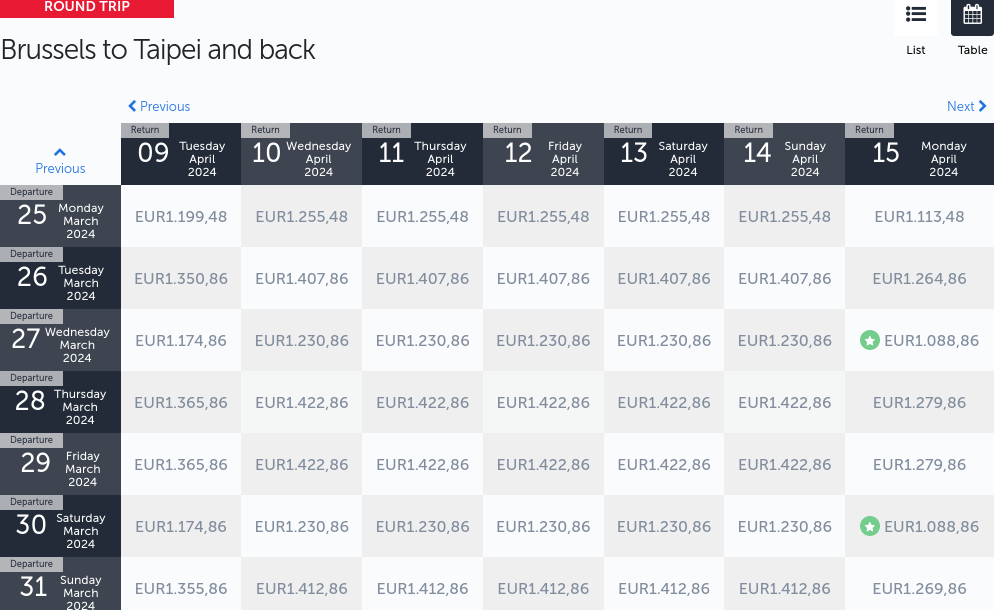
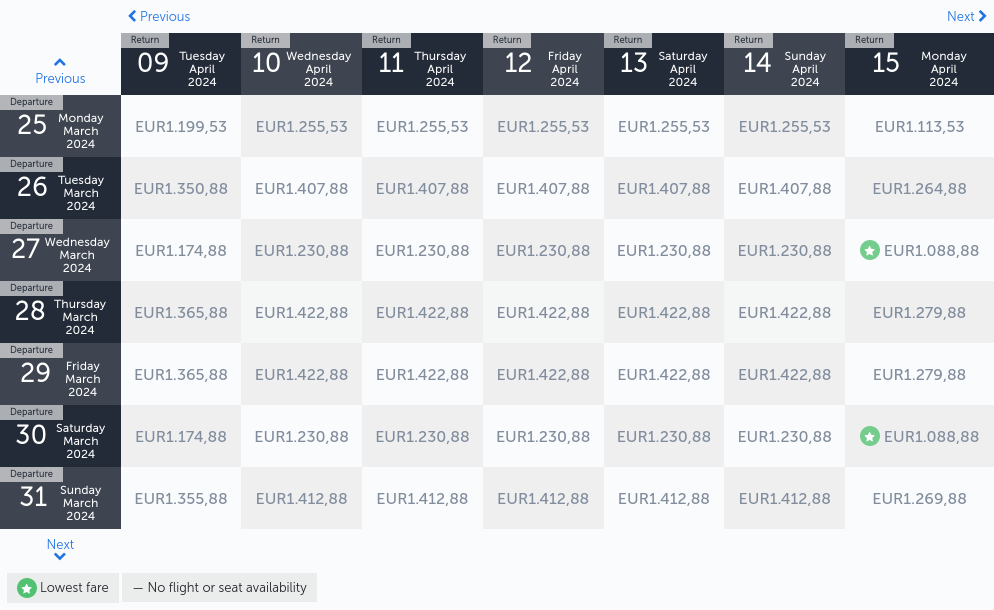
Latest scraping taiwan: Fri Aug  4 22:38:58 UTC 2023

diff --git a/scrapes/taiwan/turkish-airlines.md b/scrapes/taiwan/turkish-airlines.md
@@ -2,13 +2,13 @@
 | --- | --- |     |     |     |     |     |     | --- | --- | --- | --- | --- | --- |
 | Previous | Return<br><br>09 Tuesday April 2024 | Return<br><br>10 Wednesday April 2024 | Return<br><br>11 Thursday April 2024 | Return<br><br>12 Friday April 2024 | Return<br><br>13 Saturday April 2024 | Return<br><br>14 Sunday April 2024 | Return<br><br>15 Monday April 2024 |
 | --- | --- | --- | --- | --- | --- | --- | --- |
-| Departure<br><br>25 Monday March 2024 | 1.199,48 | 1.255,48 | 1.255,48 | 1.255,48 | 1.255,48 | 1.255,48 | 1.113,48 |
-| Departure<br><br>26 Tuesday March 2024 | 1.350,86 | 1.407,86 | 1.407,86 | 1.407,86 | 1.407,86 | 1.407,86 | 1.264,86 |
-| Departure<br><br>27 Wednesday March 2024 | 1.174,86 | 1.230,86 | 1.230,86 | 1.230,86 | 1.230,86 | 1.230,86 | 1.088,86 |
-| Departure<br><br>28 Thursday March 2024 | 1.365,86 | 1.422,86 | 1.422,86 | 1.422,86 | 1.422,86 | 1.422,86 | 1.279,86 |
-| Departure<br><br>29 Friday March 2024 | 1.365,86 | 1.422,86 | 1.422,86 | 1.422,86 | 1.422,86 | 1.422,86 | 1.279,86 |
-| Departure<br><br>30 Saturday March 2024 | 1.174,86 | 1.230,86 | 1.230,86 | 1.230,86 | 1.230,86 | 1.230,86 | 1.088,86 |
-| Departure<br><br>31 Sunday March 2024 | 1.355,86 | 1.412,86 | 1.412,86 | 1.412,86 | 1.412,86 | 1.412,86 | 1.269,86 |
+| Departure<br><br>25 Monday March 2024 | 1.199,53 | 1.255,53 | 1.255,53 | 1.255,53 | 1.255,53 | 1.255,53 | 1.113,53 |
+| Departure<br><br>26 Tuesday March 2024 | 1.350,88 | 1.407,88 | 1.407,88 | 1.407,88 | 1.407,88 | 1.407,88 | 1.264,88 |
+| Departure<br><br>27 Wednesday March 2024 | 1.174,88 | 1.230,88 | 1.230,88 | 1.230,88 | 1.230,88 | 1.230,88 | 1.088,88 |
+| Departure<br><br>28 Thursday March 2024 | 1.365,88 | 1.422,88 | 1.422,88 | 1.422,88 | 1.422,88 | 1.422,88 | 1.279,88 |
+| Departure<br><br>29 Friday March 2024 | 1.365,88 | 1.422,88 | 1.422,88 | 1.422,88 | 1.422,88 | 1.422,88 | 1.279,88 |
+| Departure<br><br>30 Saturday March 2024 | 1.174,88 | 1.230,88 | 1.230,88 | 1.230,88 | 1.230,88 | 1.230,88 | 1.088,88 |
+| Departure<br><br>31 Sunday March 2024 | 1.355,88 | 1.412,88 | 1.412,88 | 1.412,88 | 1.412,88 | 1.412,88 | 1.269,88 |
 | Next |
 | Lowest fare — No flight or seat availability |     |     |     |     |     |     |     |
 
